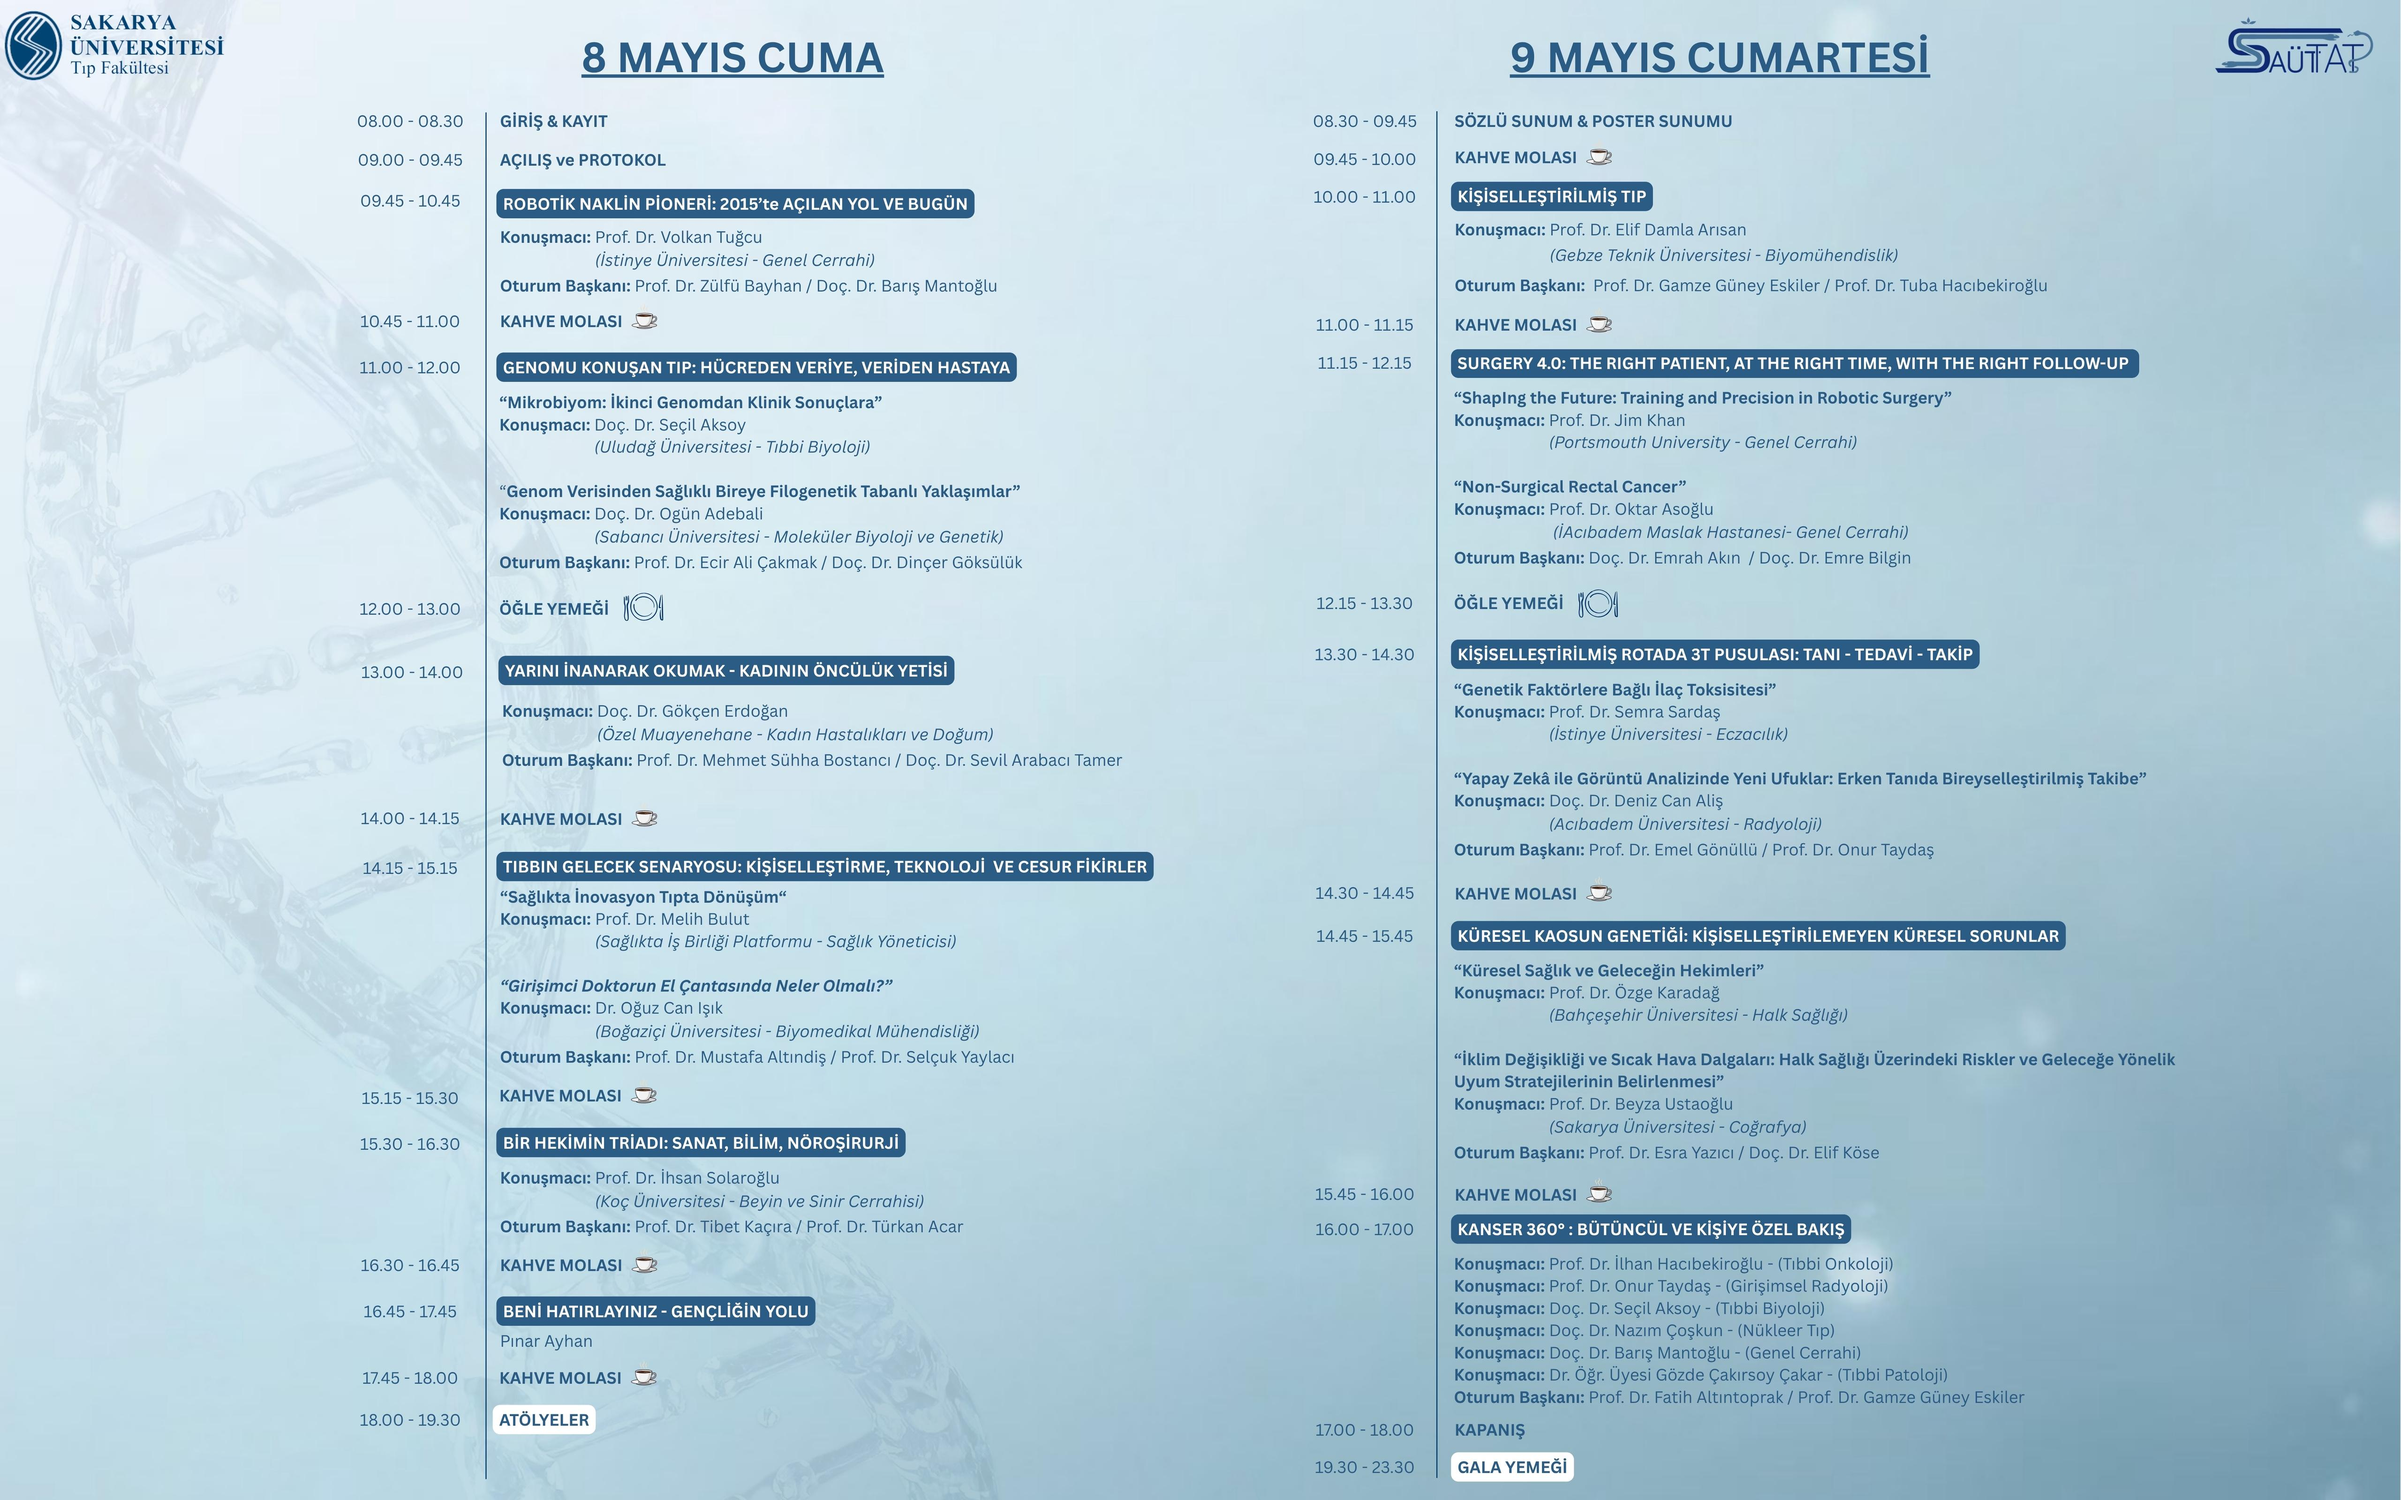
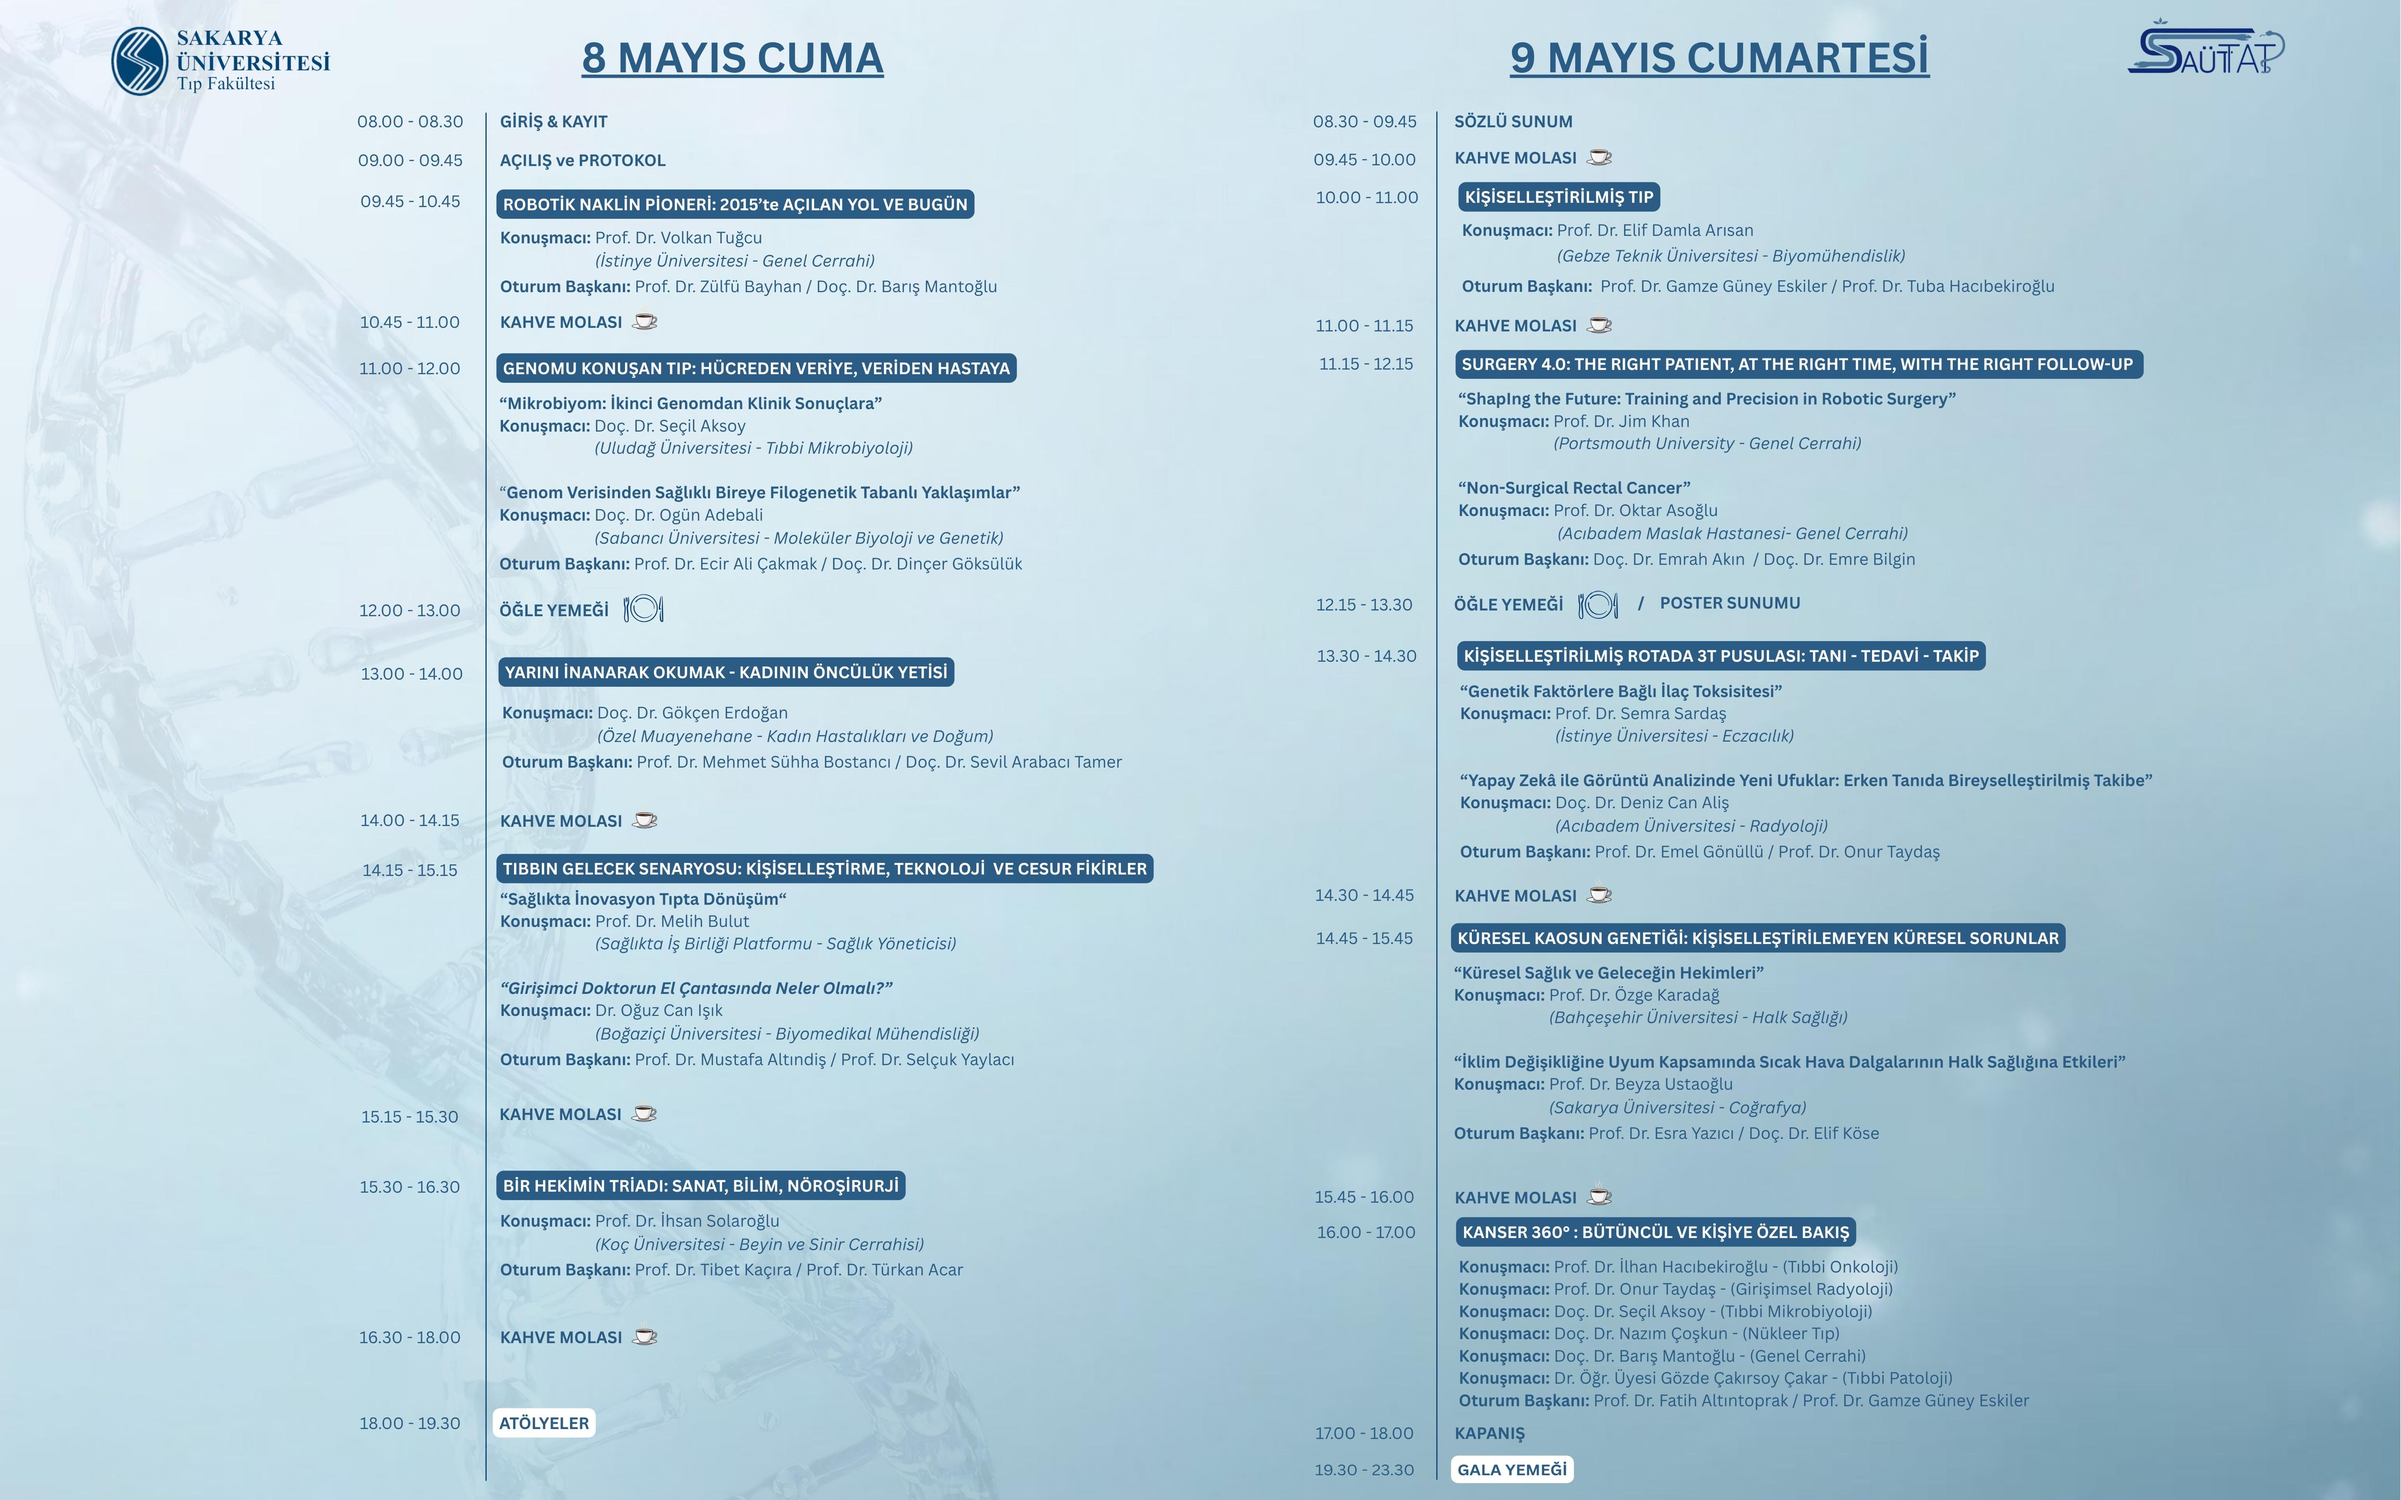
fix: update speaker title, hide specific schedule session, and conditionally collapse fallback sponsor groups

diff --git a/pages/program-detailed.html b/pages/program-detailed.html
@@ -120,7 +120,7 @@
                 <ul class="topic-list mb-2">
                   <li>
                     <p class="topic-title">"Mikrobiyom: İkinci Genomdan Klinik Sonuçlara"</p>
-                    <p class="session-meta mb-0"><strong>Konuşmacı:</strong> Doç. Dr. Seçil Aksoy (Uludağ Üniversitesi - Tıbbi Biyoloji)</p>
+                    <p class="session-meta mb-0"><strong>Konuşmacı:</strong> Doç. Dr. Seçil Aksoy (Uludağ Üniversitesi - Tıbbi Mikrobiyoloji)</p>
                   </li>
                   <li>
                     <p class="topic-title">"Genom Verisinden Sağlıklı Bireye Filogenetik Tabanlı Yaklaşımlar"</p>
@@ -196,7 +196,7 @@
 
             <li class="schedule-item">
               <span class="schedule-time">16.45 - 17.45</span>
-              <div class="schedule-content">
+              <div class="schedule-content d-none">
                 <h3 class="session-title main-topic">Beni Hatırlayınız - Gençliğin Yolu</h3>
                 <p class="session-meta mb-0"><strong>Konuk:</strong> Pınar Ayhan</p>
               </div>

diff --git a/assets/js/pages/home.js b/assets/js/pages/home.js
@@ -488,6 +488,11 @@
     const groupEl = document.createElement('article');
     groupEl.className = 'sponsor-tier-group';
     groupEl.setAttribute('data-sponsor-tier-group', tierKey);
+    if (tierKey === SPONSOR_FALLBACK_TIER) {
+      groupEl.classList.add('d-none');
+      groupEl.setAttribute('hidden', 'hidden');
+      groupEl.setAttribute('aria-hidden', 'true');
+    }
 
     const headEl = document.createElement('div');
     headEl.className = 'sponsor-tier-group-head';
